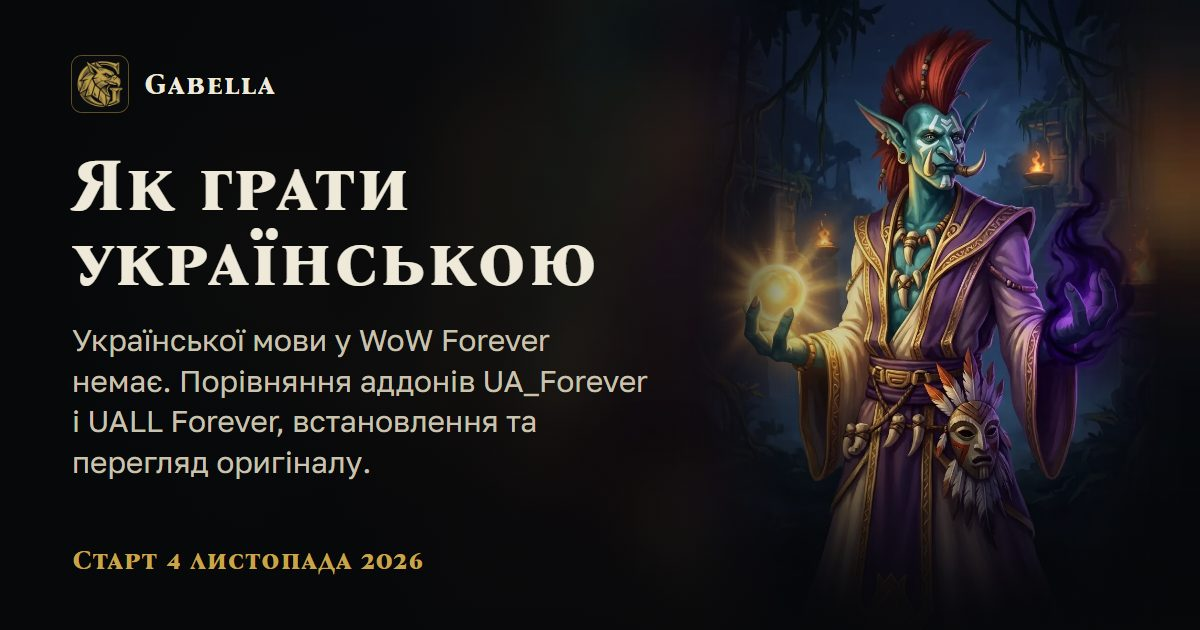
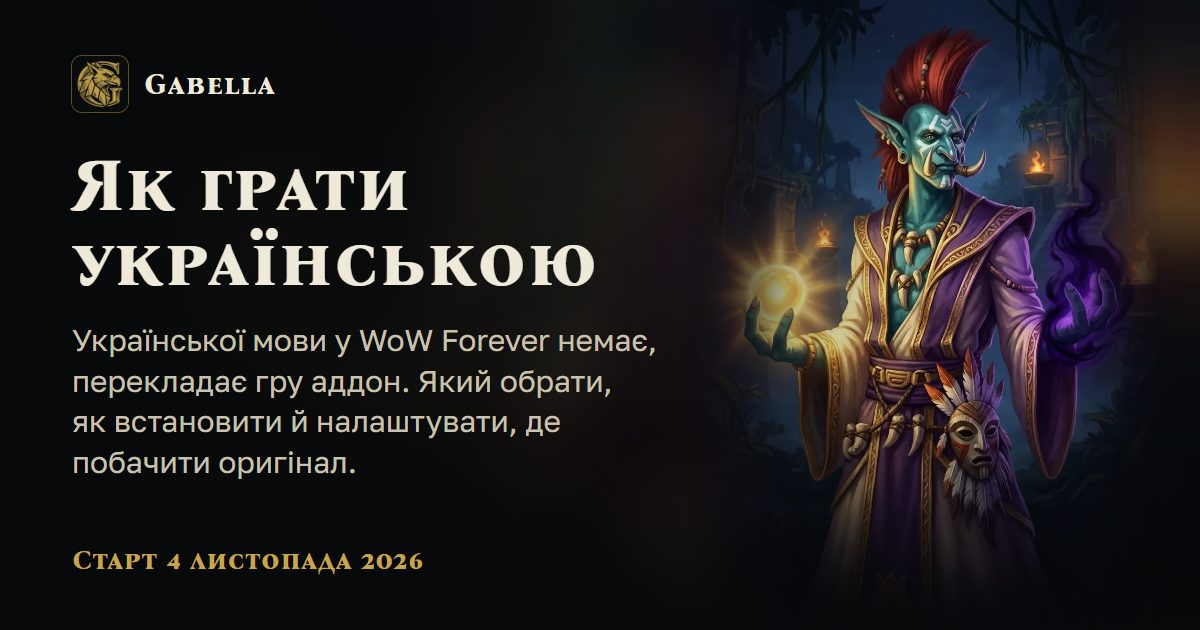
Як грати українською: страница заново — коротко, мова гри, сравнение без быстро стареющих цифр, установка, команды, неперекладене, частые вопросы

Changed region(s): [[0.0617, 0.5127, 0.555, 0.6937], [0.0617, 0.7238, 0.3083, 0.754]]

diff --git a/uk/guides/ukrainian/index.html b/uk/guides/ukrainian/index.html
@@ -981,7 +981,7 @@ nav.gtiles { padding: 14px; }
 <link rel="apple-touch-icon" href="../../../assets/icons/apple-touch-icon.png">
 <meta name="apple-mobile-web-app-title" content="Gabella WoW">
 <link rel="stylesheet" href="../../../assets/radio/radio.css" media="print" onload="this.media='all'">
-<link rel="stylesheet" href="../../../assets/search/search.css?v=eeb12c2808" media="print" onload="this.media='all'">
+<link rel="stylesheet" href="../../../assets/search/search.css?v=6bc371b279" media="print" onload="this.media='all'">
 <script type="application/ld+json">{"@context":"https://schema.org","@type":"BreadcrumbList","itemListElement":[{"@type":"ListItem","position":1,"name":"Головна","item":"https://gabella.site/wow/uk/"},{"@type":"ListItem","position":2,"name":"Гайди","item":"https://gabella.site/wow/uk/guides/"},{"@type":"ListItem","position":3,"name":"Як грати українською","item":"https://gabella.site/wow/uk/guides/ukrainian/"}]}</script>
 </head>
 <body>
@@ -1024,18 +1024,21 @@ nav.gtiles { padding: 14px; }
   <div class="wrap">
     <nav class="crumbs" aria-label="Навігація"><a href="../../">Гід</a><span aria-hidden="true">/</span><a href="../../guides/">Гайди</a><span aria-hidden="true">/</span><span>Як грати українською</span></nav>
     <h1>Як грати українською</h1>
-    <p class="glead">Української мови у WoW Forever немає. Порівняння аддонів UA_Forever і UALL Forever, встановлення та перегляд оригіналу.</p>
+    <p class="glead">Української мови у WoW Forever немає, перекладає гру аддон. Який обрати, як встановити й налаштувати, де побачити оригінал.</p>
     <div class="pills"><span class="pill">UA_Forever</span><span class="pill">UALL Forever</span><span class="pill">Shift — оригінал</span></div>
   </div>
 </section>
 
 <main class="wrap gbody">
-  <nav class="gtoc frame" aria-label="Розділи гайду"><a href="#client">Мова клієнта</a><a href="#choose">Який аддон обрати</a><a href="#install">Встановлення</a><a href="#original">Оригінал англійською</a></nav>
+  <nav class="gtoc frame" aria-label="Розділи гайду"><a href="#short">Коротко</a><a href="#client">Мова гри</a><a href="#choose">UA_Forever чи UALL Forever</a><a href="#install">Встановлення</a><a href="#setup">Налаштування й оригінал</a><a href="#help">Неперекладений текст</a><a href="#questions">Часті питання</a></nav>
   <div class="gmain">
-<section class="frame gsec" id="client"><h2>Мова клієнта</h2><p>Клієнт WoW Forever доступний десятьма мовами, серед них англійська та російська. Української серед них немає.</p><p>Українською грають з аддоном: він підміняє тексти завдань, підказок і вікон поверх клієнта. Аддони неофіційні, їх роблять гравці, тож після патчів переклад може відставати.</p></section>
-<section class="frame gsec" id="choose"><h2>Який аддон обрати</h2><table class="gtable"><thead><tr><th scope="col"></th><th scope="col">UA_Forever</th><th scope="col">UALL Forever</th></tr></thead><tbody><tr><td data-l="">Основа</td><td data-l="UA_Forever">Переклад спільноти ClassicUA, ведеться з 2021 року</td><td data-l="UALL Forever">Власний переклад</td></tr><tr><td data-l="">Завдання</td><td data-l="UA_Forever">6209</td><td data-l="UALL Forever">4389</td></tr><tr><td data-l="">Предмети</td><td data-l="UA_Forever">24 025</td><td data-l="UALL Forever">6097</td></tr><tr><td data-l="">Заклинання</td><td data-l="UA_Forever">32 939</td><td data-l="UALL Forever">29 743</td></tr><tr><td data-l="">Рід героя</td><td data-l="UA_Forever">«дав» або «дала» за статтю персонажа</td><td data-l="UALL Forever">Завжди чоловічий рід</td></tr><tr><td data-l="">Назви</td><td data-l="UA_Forever">Перекладені: Залізогарт, Підмістя</td><td data-l="UALL Forever">Транслітерація: Айронфордж, Андерсіті</td></tr><tr><td data-l="">Оригінал</td><td data-l="UA_Forever">Shift у підказці, EN/UA у діалогах завдань</td><td data-l="UALL Forever">Shift</td></tr><tr><td data-l="">Клієнт</td><td data-l="UA_Forever">Клієнт Forever</td><td data-l="UALL Forever">Лише англійський</td></tr><tr><td data-l="">Версія</td><td data-l="UA_Forever">0.22.0 від 22.10.2026</td><td data-l="UALL Forever">1.0.10 від 13.10.2026</td></tr></tbody></table><p>Обирайте UA_Forever. Перекладено більше, назви українською, речення узгоджені з родом героя. Слабкі місця: місцями дослівний текст і поодинокі помилки.</p><p>UALL Forever читається рівніше, але назви в ньому транслітом, а предметів перекладено вчетверо менше.</p><div class="tipbox"><svg class="ico fi" aria-hidden="true"><use href="#i-fire"/></svg><p><span class="tl">Порада</span>На цьому сайті ігрові назви англійською, як в оригінальному клієнті. Так їх пишуть Wowhead, гайди й гравці в групі. Затисніть Shift на підказці, щоб звірити назву.</p></div></section>
-<section class="frame gsec" id="install"><h2>Встановлення</h2><ol class="steps-c"><li><span class="n">01</span><div><b>CurseForge</b><p>У застосунку CurseForge оберіть World of Warcraft і версію Forever, знайдіть аддон і натисніть Install.</p></div></li><li><span class="n">02</span><div><b>Або вручну</b><p>Завантажте архів зі сторінки аддона й розпакуйте папку в Interface\AddOns у теці гри Forever. У беті це була тека _classic_beta_.</p></div></li><li><span class="n">03</span><div><b>Увімкнення</b><p>На екрані вибору персонажа відкрийте AddOns і поставте позначку. Якщо аддон позначено застарілим, увімкніть Load out of date AddOns.</p></div></li><li><span class="n">04</span><div><b>Перезавантаження</b><p>Якщо гра вже запущена, введіть /reload у чаті.</p></div></li></ol><div class="tipbox"><svg class="ico fi" aria-hidden="true"><use href="#i-fire"/></svg><p><span class="tl">Порада</span>Вмикайте один аддон перекладу. Обидва підміняють ті самі вікна.</p></div></section>
-<section class="frame gsec" id="original"><h2>Оригінал англійською</h2><p>UA_Forever: затисніть Shift, і підказка покаже англійський текст. У діалогах завдань є перемикач EN/UA. Окремі частини перекладу вимикаються в налаштуваннях аддона.</p><p>UALL Forever: Shift показує англійський текст. /uallfua виводить стан перекладу, /uallfua list — частини, які можна вимкнути. Ті самі перемикачі: Esc → Options → AddOns → UALLF.</p></section>
+<section class="frame gsec" id="short"><h2>Коротко</h2><p>Ставте UA_Forever. Він перекладає завдання, підказки, предмети, заклинання, імена NPC і вікна гри, а речення узгоджує з родом героя: «ви дав» чи «ви дала», залежно від персонажа.</p><p>Встановлення через CurseForge займає кілька хвилин. Оригінал англійською завжди під рукою: затисніть Shift.</p><p class="gbtns"><a class="btn" href="https://www.curseforge.com/wow/addons/ua-forever" target="_blank" rel="noopener">UA_Forever на CurseForge ↗</a><a class="btn ghost" href="#install">Як встановити</a></p></section>
+<section class="frame gsec" id="client"><h2>Мова гри</h2><p>Клієнт WoW Forever доступний десятьма мовами, серед них англійська та російська. Української серед них немає.</p><p>Аддон підміняє тексти лише на вашому екрані. Інші гравці бачать гру своєю мовою, на правила й бої переклад не впливає.</p><p>UALL Forever працює лише з англійським клієнтом. Мову змінюють у лаунчері Battle.net: налаштування гри, мова тексту.</p></section>
+<section class="frame gsec" id="choose"><h2>UA_Forever чи UALL Forever</h2><p>На CurseForge два аддони українізації Forever з майже однаковою кількістю завантажень. Відрізняються вони сильно.</p><table class="gtable"><thead><tr><th scope="col"></th><th scope="col">UA_Forever</th><th scope="col">UALL Forever</th></tr></thead><tbody><tr><td data-l="">Основа</td><td data-l="UA_Forever">ClassicUA: переклад спільноти, над ним працювали понад 30 перекладачів і редакторів</td><td data-l="UALL Forever">Власний переклад автора</td></tr><tr><td data-l="">Обсяг</td><td data-l="UA_Forever">Завдання, предмети, заклинання, аури, репліки NPC, книги, вікна</td><td data-l="UALL Forever">Те саме, але предметів перекладено майже вчетверо менше</td></tr><tr><td data-l="">Рід героя</td><td data-l="UA_Forever">Форми за статтю персонажа: «дав» або «дала»</td><td data-l="UALL Forever">Завжди чоловічий рід</td></tr><tr><td data-l="">Назви</td><td data-l="UA_Forever">Перекладені: Залізогарт, Підмістя, Молотобій</td><td data-l="UALL Forever">Транслітерація: Айронфордж, Андерсіті, Гаммерфолл</td></tr><tr><td data-l="">Оригінал</td><td data-l="UA_Forever">Shift у підказці, EN/UA у діалогах завдань</td><td data-l="UALL Forever">Shift</td></tr><tr><td data-l="">Мова клієнта</td><td data-l="UA_Forever">Вимог не вказано</td><td data-l="UALL Forever">Лише англійська</td></tr><tr><td data-l="">Налаштування</td><td data-l="UA_Forever">Налаштування → Додатки → UA Forever, команда /uaf</td><td data-l="UALL Forever">Esc → Options → AddOns → UALLF, команда /uallfua</td></tr><tr><td data-l="">Код</td><td data-l="UA_Forever">Відкритий, ліцензія GPLv3</td><td data-l="UALL Forever">Закритий</td></tr></tbody></table><p>UA_Forever перекладає більше й звучить природніше завдяки родам і перекладеним назвам. Слабкі місця: місцями дослівний текст, поодинокі помилки, у цілях завдань звертання на «ви» при «ти» в самому тексті.</p><p>UALL Forever читається рівніше, але назви транслітом, у предметах трапляються Англійські Великі Літери, а переклад і транслітерація змішуються: Пустограй поруч зі Срібноліссям.</p><div class="tipbox"><svg class="ico fi" aria-hidden="true"><use href="#i-fire"/></svg><p><span class="tl">Порада</span>На цьому сайті ігрові назви англійською, як в оригінальному клієнті: так їх пишуть Wowhead, гайди й гравці в групі. Затисніть Shift на підказці, щоб звірити назву з аддоном.</p></div></section>
+<section class="frame gsec" id="install"><h2>Встановлення</h2><ol class="steps-c"><li><span class="n">01</span><div><b>CurseForge</b><p>Встановіть застосунок CurseForge, оберіть World of Warcraft і версію Forever. Знайдіть UA_Forever і натисніть Install, оновлення застосунок ставитиме сам.</p></div></li><li><span class="n">02</span><div><b>Або вручну</b><p>Завантажте архів зі сторінки аддона й розпакуйте так, щоб папка UA_Forever опинилася в Interface\AddOns у теці гри Forever.</p></div></li><li><span class="n">03</span><div><b>Увімкнення</b><p>На екрані вибору персонажа відкрийте AddOns і поставте позначку. Якщо аддон позначено застарілим, увімкніть Load out of date AddOns.</p></div></li><li><span class="n">04</span><div><b>Перевірка</b><p>Якщо гра вже запущена, введіть /reload у чаті. Підказки й вікна завдань мають стати українськими.</p></div></li></ol><div class="tipbox"><svg class="ico fi" aria-hidden="true"><use href="#i-fire"/></svg><p><span class="tl">Порада</span>Вмикайте один аддон перекладу. Обидва підміняють ті самі вікна й заважають один одному.</p></div></section>
+<section class="frame gsec" id="setup"><h2>Налаштування й оригінал</h2><table class="gtable"><thead><tr><th scope="col"></th><th scope="col">UA_Forever</th><th scope="col">UALL Forever</th></tr></thead><tbody><tr><td data-l="">Побачити оригінал</td><td data-l="UA_Forever">Затиснути Shift на підказці</td><td data-l="UALL Forever">Затиснути Shift</td></tr><tr><td data-l="">Діалог завдання англійською</td><td data-l="UA_Forever">Перемикач EN/UA у вікні діалогу</td><td data-l="UALL Forever">Shift</td></tr><tr><td data-l="">Увімкнути чи вимкнути переклад</td><td data-l="UA_Forever">/uaf on, /uaf off</td><td data-l="UALL Forever">Перемикачі в Esc → Options → AddOns → UALLF</td></tr><tr><td data-l="">Стан перекладу</td><td data-l="UA_Forever">/uaf status</td><td data-l="UALL Forever">/uallfua</td></tr><tr><td data-l="">Вимкнути окремі частини</td><td data-l="UA_Forever">Налаштування → Додатки → UA Forever</td><td data-l="UALL Forever">/uallfua list</td></tr></tbody></table></section>
+<section class="frame gsec" id="help"><h2>Неперекладений текст</h2><p>Forever змінює частину класичних завдань і заклинань, тому старий переклад місцями відстає, а нові тексти з’являються з оновленнями аддона.</p><p>UA_Forever збирає неперекладене сам. У налаштуваннях аддона увімкніть автоскан і пограйте. Там само відкрийте зібрані дані, скопіюйте їх і надішліть через форму, посилання на яку є на сторінці аддона на GitHub. Без вас нічого не відправляється.</p></section>
+<section class="frame gsec" id="questions"><h2>Часті питання</h2><div class="gfaq"><details id="ban"><summary>Чи можуть заблокувати за аддон перекладу?</summary><p>Аддони інтерфейсу Blizzard дозволяє. Перекладач лише змінює текст на вашому екрані й не автоматизує гру.</p></details><details id="others"><summary>Чи побачать переклад інші гравці?</summary><p>Ні, переклад працює тільки у вас. Назви в чаті групи пишіть англійською: так їх зрозуміють усі.</p></details><details id="outdated"><summary>Після патча аддон позначено застарілим. Що робити?</summary><p>Увімкніть Load out of date AddOns на екрані вибору персонажа й оновіть аддон через CurseForge, коли вийде нова версія.</p></details><details id="russian"><summary>Чи працює UA_Forever з російським клієнтом?</summary><p>Автор вимог до мови клієнта не вказує. Якщо частина тексту лишається неперекладеною, поставте англійську мову в лаунчері Battle.net.</p></details></div></section>
   </div>
 </main>
 
@@ -1043,7 +1046,7 @@ nav.gtiles { padding: 14px; }
 <section id="more"><div class="sec-head"><h2>Інші гайди</h2></div><nav class="frame ttiles gtiles" aria-label="Інші гайди"><a class="ttile" href="../../guides/leveling/"><picture><source type="image/avif" srcset="../../../assets/art/hero_dawn-960.avif 960w, ../../../assets/art/hero_dawn-1440.avif 1440w, ../../../assets/art/hero_dawn-1920.avif 1920w, ../../../assets/art/hero_dawn-2560.avif 2560w" sizes="320px"><img src="../../../assets/art/hero_dawn-960.webp" srcset="../../../assets/art/hero_dawn-960.webp 960w, ../../../assets/art/hero_dawn-1440.webp 1440w, ../../../assets/art/hero_dawn-1920.webp 1920w, ../../../assets/art/hero_dawn-2560.webp 2560w" sizes="320px" alt="" loading="lazy" decoding="async"></picture><b>Прокачування 1–60</b><span>Зони за рівнями, відпочинок, Legacy і табір</span><time datetime="2026-10-23">23.10.2026</time></a><a class="ttile" href="../../guides/dungeons/"><picture><source type="image/avif" srcset="../../../assets/art/warlock-360.avif 360w, ../../../assets/art/warlock-600.avif 600w, ../../../assets/art/warlock-896.avif 896w" sizes="320px"><img src="../../../assets/art/warlock-600.webp" srcset="../../../assets/art/warlock-360.webp 360w, ../../../assets/art/warlock-600.webp 600w, ../../../assets/art/warlock-896.webp 896w" sizes="320px" alt="" loading="lazy" decoding="async"></picture><b>Підземелля та рейди</b><span>35 підземель за рівнями, рейди, склад групи</span><time datetime="2026-10-23">23.10.2026</time></a><a class="ttile" href="../../guides/professions/"><picture><source type="image/avif" srcset="../../../assets/art/hero_campfire-960.avif 960w, ../../../assets/art/hero_campfire-1600.avif 1600w" sizes="320px"><img src="../../../assets/art/hero_campfire-960.webp" srcset="../../../assets/art/hero_campfire-960.webp 960w, ../../../assets/art/hero_campfire-1600.webp 1600w" sizes="320px" alt="" loading="lazy" decoding="async"></picture><b>Професії</b><span>Пари під клас, об’єкти табору, навичка до 300</span><time datetime="2026-10-23">23.10.2026</time></a><a class="ttile" href="../../guides/faq/"><picture><source type="image/avif" srcset="../../../assets/art/mage-360.avif 360w, ../../../assets/art/mage-600.avif 600w, ../../../assets/art/mage-896.avif 896w" sizes="320px"><img src="../../../assets/art/mage-600.webp" srcset="../../../assets/art/mage-360.webp 360w, ../../../assets/art/mage-600.webp 600w, ../../../assets/art/mage-896.webp 896w" sizes="320px" alt="" loading="lazy" decoding="async"></picture><b>FAQ і дати</b><span>Дати, набори, режими та відповіді</span><time datetime="2026-10-23">23.10.2026</time></a><a class="ttile" href="../../guides/news/"><picture><source type="image/avif" srcset="../../../assets/art/paladin-360.avif 360w, ../../../assets/art/paladin-600.avif 600w, ../../../assets/art/paladin-896.avif 896w" sizes="320px"><img src="../../../assets/art/paladin-600.webp" srcset="../../../assets/art/paladin-360.webp 360w, ../../../assets/art/paladin-600.webp 600w, ../../../assets/art/paladin-896.webp 896w" sizes="320px" alt="" loading="lazy" decoding="async"></picture><b>Новини</b><span>Наші записи та стрічка Wowhead</span></a></nav></section>
 <footer id="sources">
   <h2>Джерела</h2>
-  <ul><li><a href="https://www.curseforge.com/wow/addons/ua-forever" target="_blank" rel="noopener">CurseForge: UA_Forever</a></li><li><a href="https://www.curseforge.com/wow/addons/uall-forever-ukrainian-localization" target="_blank" rel="noopener">CurseForge: UALL Forever</a></li><li><a href="https://github.com/greenya/ClassicUA" target="_blank" rel="noopener">ClassicUA на GitHub</a></li><li><a href="https://wowguide.net/en/guides/wow-forever-supported-languages" target="_blank" rel="noopener">WoWGuide: мови WoW Forever</a></li></ul>
+  <ul><li><a href="https://www.curseforge.com/wow/addons/ua-forever" target="_blank" rel="noopener">CurseForge: UA_Forever</a></li><li><a href="https://github.com/sysrover/UA_Forever" target="_blank" rel="noopener">UA_Forever на GitHub: опис і команди</a></li><li><a href="https://www.curseforge.com/wow/addons/uall-forever-ukrainian-localization" target="_blank" rel="noopener">CurseForge: UALL Forever</a></li><li><a href="https://github.com/greenya/ClassicUA" target="_blank" rel="noopener">ClassicUA на GitHub</a></li><li><a href="https://wowguide.net/en/guides/wow-forever-supported-languages" target="_blank" rel="noopener">WoWGuide: мови WoW Forever</a></li></ul>
   <p>Оновлено 23.10.2026. Дані за закритою бетою, до релізу можуть змінитися.</p>
   <nav class="fmap" aria-label="Мапа сайту"><div><a class="fh" href="../../../uk/classes/">Класи</a><ul><li><a href="../../../uk/classes/warrior/">Воїн</a></li><li><a href="../../../uk/classes/paladin/">Паладин</a></li><li><a href="../../../uk/classes/hunter/">Мисливець</a></li><li><a href="../../../uk/classes/rogue/">Розбійник</a></li><li><a href="../../../uk/classes/priest/">Жрець</a></li><li><a href="../../../uk/classes/shaman/">Шаман</a></li><li><a href="../../../uk/classes/mage/">Маг</a></li><li><a href="../../../uk/classes/warlock/">Чорнокнижник</a></li><li><a href="../../../uk/classes/druid/">Друїд</a></li></ul></div><div><a class="fh" href="../../../uk/races/">Раси</a><ul><li><a href="../../../uk/races/human/">Людина</a></li><li><a href="../../../uk/races/dwarf/">Дворф</a></li><li><a href="../../../uk/races/night-elf/">Нічний ельф</a></li><li><a href="../../../uk/races/gnome/">Гном</a></li><li><a href="../../../uk/races/skyborne-alliance/">Високий скайборн</a></li><li><a href="../../../uk/races/orc/">Орк</a></li><li><a href="../../../uk/races/undead/">Нежить</a></li><li><a href="../../../uk/races/tauren/">Таурен</a></li><li><a href="../../../uk/races/troll/">Троль</a></li><li><a href="../../../uk/races/skyborne-horde/">Скайборн-вітрорізь</a></li></ul></div><div><a class="fh" href="../../../uk/guides/">Гайди</a><ul><li><a href="../../../uk/guides/leveling/">Прокачування 1–60</a></li><li><a href="../../../uk/guides/dungeons/">Підземелля та рейди</a></li><li><a href="../../../uk/guides/professions/">Професії</a></li><li><a href="../../../uk/guides/faq/">FAQ і дати</a></li><li><a href="../../../uk/guides/news/">Новини</a></li><li><a href="../../../uk/guides/ukrainian/">Як грати українською</a></li></ul></div><div><a class="fh" href="../../../uk/tools/">Інструменти</a><ul><li><a href="../../../uk/tools/">Інструменти</a></li><li><a href="../../../uk/play/">У грі</a></li></ul></div></nav><div class="legal"><p>Фанатський гід Gabella. Сайт не пов’язаний з Blizzard Entertainment і не схвалений нею. World of Warcraft, Warcraft і Blizzard Entertainment — торгові марки або зареєстровані торгові марки Blizzard Entertainment, Inc. у США та/або інших країнах.</p><p>© 2026 Gabella<span aria-hidden="true"> · </span><a href="../../../uk/privacy/">Конфіденційність</a><span aria-hidden="true"> · </span>Зв’язок: <a href="mailto:contact@gabella.site">contact@gabella.site</a></p></div>
 </footer>
@@ -1059,7 +1062,7 @@ nav.gtiles { padding: 14px; }
 <dialog class="sheet" id="moreDlg" aria-label="Усі розділи">
   <div class="dh"><b>Усі розділи</b><button class="iconbtn" id="moreClose" type="button" aria-label="Закрити"><svg class="ico" aria-hidden="true"><use href="#i-x"/></svg></button></div>
   <nav class="toc" aria-label="Усі розділи">
-    <div class="grp"><div class="gh">Ця сторінка</div><a href="#client">Мова клієнта</a><a href="#choose">Який аддон обрати</a><a href="#install">Встановлення</a><a href="#original">Оригінал англійською</a></div>
+    <div class="grp"><div class="gh">Ця сторінка</div><a href="#short">Коротко</a><a href="#client">Мова гри</a><a href="#choose">UA_Forever чи UALL Forever</a><a href="#install">Встановлення</a><a href="#setup">Налаштування й оригінал</a><a href="#help">Неперекладений текст</a><a href="#questions">Часті питання</a></div>
     <div class="grp"><div class="gh">Гід</div><a href="../../">Головна</a><a href="../../#classes">Класи</a><a href="../../#peoples">Раси</a><a href="../../#picker">Підбирач</a><a href="../../#builder">Конструктор групи</a><a href="../../tools/">Інструменти</a><a href="../../play/">У грі</a><a href="../">Гайди</a></div>
   </nav>
   <div class="opts">
@@ -1173,7 +1176,7 @@ addEventListener('beforeinstallprompt', e => {
 });
 </script>
 <script src="../../../assets/radio/radio.js" data-root="../../../" defer></script>
-<script src="../../../assets/search/search.js?v=eeb12c2808" data-root="../../../" defer></script>
+<script src="../../../assets/search/search.js?v=6bc371b279" data-root="../../../" defer></script>
 <script type="module" src="https://static.cloudflareinsights.com/beacon.min.js" data-cf-beacon='{"token": "ee1d216e690040389063e8d72384c2c7"}'></script>
 </body>
 </html>

diff --git a/content/guides.py b/content/guides.py
@@ -742,56 +742,89 @@ GUIDES.append({
 
 
 # ---------- Як грати українською: только uk ('only'), тексты — словари {'uk': …} ----------
+# Факты: CurseForge и README аддонов (23.10.2026). Без версий и числа скачиваний — они быстро устаревают.
 
 def u(s):
     return {'uk': s}
 
 
+UAF = 'https://www.curseforge.com/wow/addons/ua-forever'
+UALL = 'https://www.curseforge.com/wow/addons/uall-forever-ukrainian-localization'
+
 GUIDES.append({
     'slug': 'ukrainian', 'only': 'uk', 'art': 'priest', 'updated': '23.10.2026',
     'title': u('Як грати українською'),
-    'lead': u('Української мови у WoW Forever немає. Порівняння аддонів UA_Forever і UALL Forever, встановлення та перегляд оригіналу.'),
+    'lead': u('Української мови у WoW Forever немає, перекладає гру аддон. Який обрати, як встановити й налаштувати, де побачити оригінал.'),
     'tile': u('Аддони перекладу: який обрати й як встановити'),
     'pills': [u('UA_Forever'), u('UALL Forever'), u('Shift — оригінал')],
     'sources': [
-        (u('CurseForge: UA_Forever'), 'https://www.curseforge.com/wow/addons/ua-forever'),
-        (u('CurseForge: UALL Forever'), 'https://www.curseforge.com/wow/addons/uall-forever-ukrainian-localization'),
+        (u('CurseForge: UA_Forever'), UAF),
+        (u('UA_Forever на GitHub: опис і команди'), 'https://github.com/sysrover/UA_Forever'),
+        (u('CurseForge: UALL Forever'), UALL),
         (u('ClassicUA на GitHub'), 'https://github.com/greenya/ClassicUA'),
         (u('WoWGuide: мови WoW Forever'), 'https://wowguide.net/en/guides/wow-forever-supported-languages'),
     ],
     'sections': [
-        {'id': 'client', 'title': u('Мова клієнта'), 'blocks': [
-            ('text', [u('Клієнт WoW Forever доступний десятьма мовами, серед них англійська та російська. Української серед них немає.'),
-                      u('Українською грають з аддоном: він підміняє тексти завдань, підказок і вікон поверх клієнта. Аддони неофіційні, їх роблять гравці, тож після патчів переклад може відставати.')]),
+        {'id': 'short', 'title': u('Коротко'), 'blocks': [
+            ('text', [u('Ставте UA_Forever. Він перекладає завдання, підказки, предмети, заклинання, імена NPC і вікна гри, а речення узгоджує з родом героя: «ви дав» чи «ви дала», залежно від персонажа.'),
+                      u('Встановлення через CurseForge займає кілька хвилин. Оригінал англійською завжди під рукою: затисніть Shift.')]),
+            ('raw', u(f'<p class="gbtns"><a class="btn" href="{UAF}" target="_blank" rel="noopener">UA_Forever на CurseForge ↗</a>'
+                      '<a class="btn ghost" href="#install">Як встановити</a></p>')),
         ]},
-        {'id': 'choose', 'title': u('Який аддон обрати'), 'blocks': [
+        {'id': 'client', 'title': u('Мова гри'), 'blocks': [
+            ('text', [u('Клієнт WoW Forever доступний десятьма мовами, серед них англійська та російська. Української серед них немає.'),
+                      u('Аддон підміняє тексти лише на вашому екрані. Інші гравці бачать гру своєю мовою, на правила й бої переклад не впливає.'),
+                      u('UALL Forever працює лише з англійським клієнтом. Мову змінюють у лаунчері Battle.net: налаштування гри, мова тексту.')]),
+        ]},
+        {'id': 'choose', 'title': u('UA_Forever чи UALL Forever'), 'blocks': [
+            ('text', [u('На CurseForge два аддони українізації Forever з майже однаковою кількістю завантажень. Відрізняються вони сильно.')]),
             ('table', {'head': [u(''), u('UA_Forever'), u('UALL Forever')], 'rows': [
-                [u('Основа'), u('Переклад спільноти ClassicUA, ведеться з 2021 року'), u('Власний переклад')],
-                [u('Завдання'), '6209', '4389'],
-                [u('Предмети'), '24 025', '6097'],
-                [u('Заклинання'), '32 939', '29 743'],
-                [u('Рід героя'), u('«дав» або «дала» за статтю персонажа'), u('Завжди чоловічий рід')],
-                [u('Назви'), u('Перекладені: Залізогарт, Підмістя'), u('Транслітерація: Айронфордж, Андерсіті')],
+                [u('Основа'), u('ClassicUA: переклад спільноти, над ним працювали понад 30 перекладачів і редакторів'), u('Власний переклад автора')],
+                [u('Обсяг'), u('Завдання, предмети, заклинання, аури, репліки NPC, книги, вікна'), u('Те саме, але предметів перекладено майже вчетверо менше')],
+                [u('Рід героя'), u('Форми за статтю персонажа: «дав» або «дала»'), u('Завжди чоловічий рід')],
+                [u('Назви'), u('Перекладені: Залізогарт, Підмістя, Молотобій'), u('Транслітерація: Айронфордж, Андерсіті, Гаммерфолл')],
                 [u('Оригінал'), u('Shift у підказці, EN/UA у діалогах завдань'), u('Shift')],
-                [u('Клієнт'), u('Клієнт Forever'), u('Лише англійський')],
-                [u('Версія'), u('0.22.0 від 22.10.2026'), u('1.0.10 від 13.10.2026')],
+                [u('Мова клієнта'), u('Вимог не вказано'), u('Лише англійська')],
+                [u('Налаштування'), u('Налаштування → Додатки → UA Forever, команда /uaf'), u('Esc → Options → AddOns → UALLF, команда /uallfua')],
+                [u('Код'), u('Відкритий, ліцензія GPLv3'), u('Закритий')],
             ]}),
-            ('text', [u('Обирайте UA_Forever. Перекладено більше, назви українською, речення узгоджені з родом героя. Слабкі місця: місцями дослівний текст і поодинокі помилки.'),
-                      u('UALL Forever читається рівніше, але назви в ньому транслітом, а предметів перекладено вчетверо менше.')]),
-            ('tip', u('На цьому сайті ігрові назви англійською, як в оригінальному клієнті. Так їх пишуть Wowhead, гайди й гравці в групі. Затисніть Shift на підказці, щоб звірити назву.')),
+            ('text', [u('UA_Forever перекладає більше й звучить природніше завдяки родам і перекладеним назвам. Слабкі місця: місцями дослівний текст, поодинокі помилки, у цілях завдань звертання на «ви» при «ти» в самому тексті.'),
+                      u('UALL Forever читається рівніше, але назви транслітом, у предметах трапляються Англійські Великі Літери, а переклад і транслітерація змішуються: Пустограй поруч зі Срібноліссям.')]),
+            ('tip', u('На цьому сайті ігрові назви англійською, як в оригінальному клієнті: так їх пишуть Wowhead, гайди й гравці в групі. Затисніть Shift на підказці, щоб звірити назву з аддоном.')),
         ]},
         {'id': 'install', 'title': u('Встановлення'), 'blocks': [
             ('steps', [
-                {'t': u('CurseForge'), 'd': u('У застосунку CurseForge оберіть World of Warcraft і версію Forever, знайдіть аддон і натисніть Install.')},
-                {'t': u('Або вручну'), 'd': u('Завантажте архів зі сторінки аддона й розпакуйте папку в Interface\\AddOns у теці гри Forever. У беті це була тека _classic_beta_.')},
+                {'t': u('CurseForge'), 'd': u('Встановіть застосунок CurseForge, оберіть World of Warcraft і версію Forever. Знайдіть UA_Forever і натисніть Install, оновлення застосунок ставитиме сам.')},
+                {'t': u('Або вручну'), 'd': u('Завантажте архів зі сторінки аддона й розпакуйте так, щоб папка UA_Forever опинилася в Interface\\AddOns у теці гри Forever.')},
                 {'t': u('Увімкнення'), 'd': u('На екрані вибору персонажа відкрийте AddOns і поставте позначку. Якщо аддон позначено застарілим, увімкніть Load out of date AddOns.')},
-                {'t': u('Перезавантаження'), 'd': u('Якщо гра вже запущена, введіть /reload у чаті.')},
+                {'t': u('Перевірка'), 'd': u('Якщо гра вже запущена, введіть /reload у чаті. Підказки й вікна завдань мають стати українськими.')},
             ]),
-            ('tip', u('Вмикайте один аддон перекладу. Обидва підміняють ті самі вікна.')),
+            ('tip', u('Вмикайте один аддон перекладу. Обидва підміняють ті самі вікна й заважають один одному.')),
         ]},
-        {'id': 'original', 'title': u('Оригінал англійською'), 'blocks': [
-            ('text', [u('UA_Forever: затисніть Shift, і підказка покаже англійський текст. У діалогах завдань є перемикач EN/UA. Окремі частини перекладу вимикаються в налаштуваннях аддона.'),
-                      u('UALL Forever: Shift показує англійський текст. /uallfua виводить стан перекладу, /uallfua list — частини, які можна вимкнути. Ті самі перемикачі: Esc → Options → AddOns → UALLF.')]),
+        {'id': 'setup', 'title': u('Налаштування й оригінал'), 'blocks': [
+            ('table', {'head': [u(''), u('UA_Forever'), u('UALL Forever')], 'rows': [
+                [u('Побачити оригінал'), u('Затиснути Shift на підказці'), u('Затиснути Shift')],
+                [u('Діалог завдання англійською'), u('Перемикач EN/UA у вікні діалогу'), u('Shift')],
+                [u('Увімкнути чи вимкнути переклад'), u('/uaf on, /uaf off'), u('Перемикачі в Esc → Options → AddOns → UALLF')],
+                [u('Стан перекладу'), u('/uaf status'), u('/uallfua')],
+                [u('Вимкнути окремі частини'), u('Налаштування → Додатки → UA Forever'), u('/uallfua list')],
+            ]}),
+        ]},
+        {'id': 'help', 'title': u('Неперекладений текст'), 'blocks': [
+            ('text', [u('Forever змінює частину класичних завдань і заклинань, тому старий переклад місцями відстає, а нові тексти з’являються з оновленнями аддона.'),
+                      u('UA_Forever збирає неперекладене сам. У налаштуваннях аддона увімкніть автоскан і пограйте. Там само відкрийте зібрані дані, скопіюйте їх і надішліть через форму, посилання на яку є на сторінці аддона на GitHub. Без вас нічого не відправляється.')]),
+        ]},
+        {'id': 'questions', 'title': u('Часті питання'), 'blocks': [
+            ('faq', [
+                {'id': 'ban', 'q': u('Чи можуть заблокувати за аддон перекладу?'),
+                 'a': [u('Аддони інтерфейсу Blizzard дозволяє. Перекладач лише змінює текст на вашому екрані й не автоматизує гру.')]},
+                {'id': 'others', 'q': u('Чи побачать переклад інші гравці?'),
+                 'a': [u('Ні, переклад працює тільки у вас. Назви в чаті групи пишіть англійською: так їх зрозуміють усі.')]},
+                {'id': 'outdated', 'q': u('Після патча аддон позначено застарілим. Що робити?'),
+                 'a': [u('Увімкніть Load out of date AddOns на екрані вибору персонажа й оновіть аддон через CurseForge, коли вийде нова версія.')]},
+                {'id': 'russian', 'q': u('Чи працює UA_Forever з російським клієнтом?'),
+                 'a': [u('Автор вимог до мови клієнта не вказує. Якщо частина тексту лишається неперекладеною, поставте англійську мову в лаунчері Battle.net.')]},
+            ]),
         ]},
     ],
 })

diff --git a/build_guides.py b/build_guides.py
@@ -494,8 +494,8 @@ def page_ids(g):
                 for x in d:
                     walk(x['blocks'])
             elif k == 'raw':
-                for l in LANGS[:1]:   # raw ids are the same in every language
-                    ids.extend(re.findall(r'\sid="([^"]+)"', L(d, l)))
+                html = next(iter(d.values())) if isinstance(d, dict) else d   # raw ids are the same in every language
+                ids.extend(re.findall(r'\sid="([^"]+)"', html))
     for s in g['sections']:
         walk(s['blocks'])
     return ids
